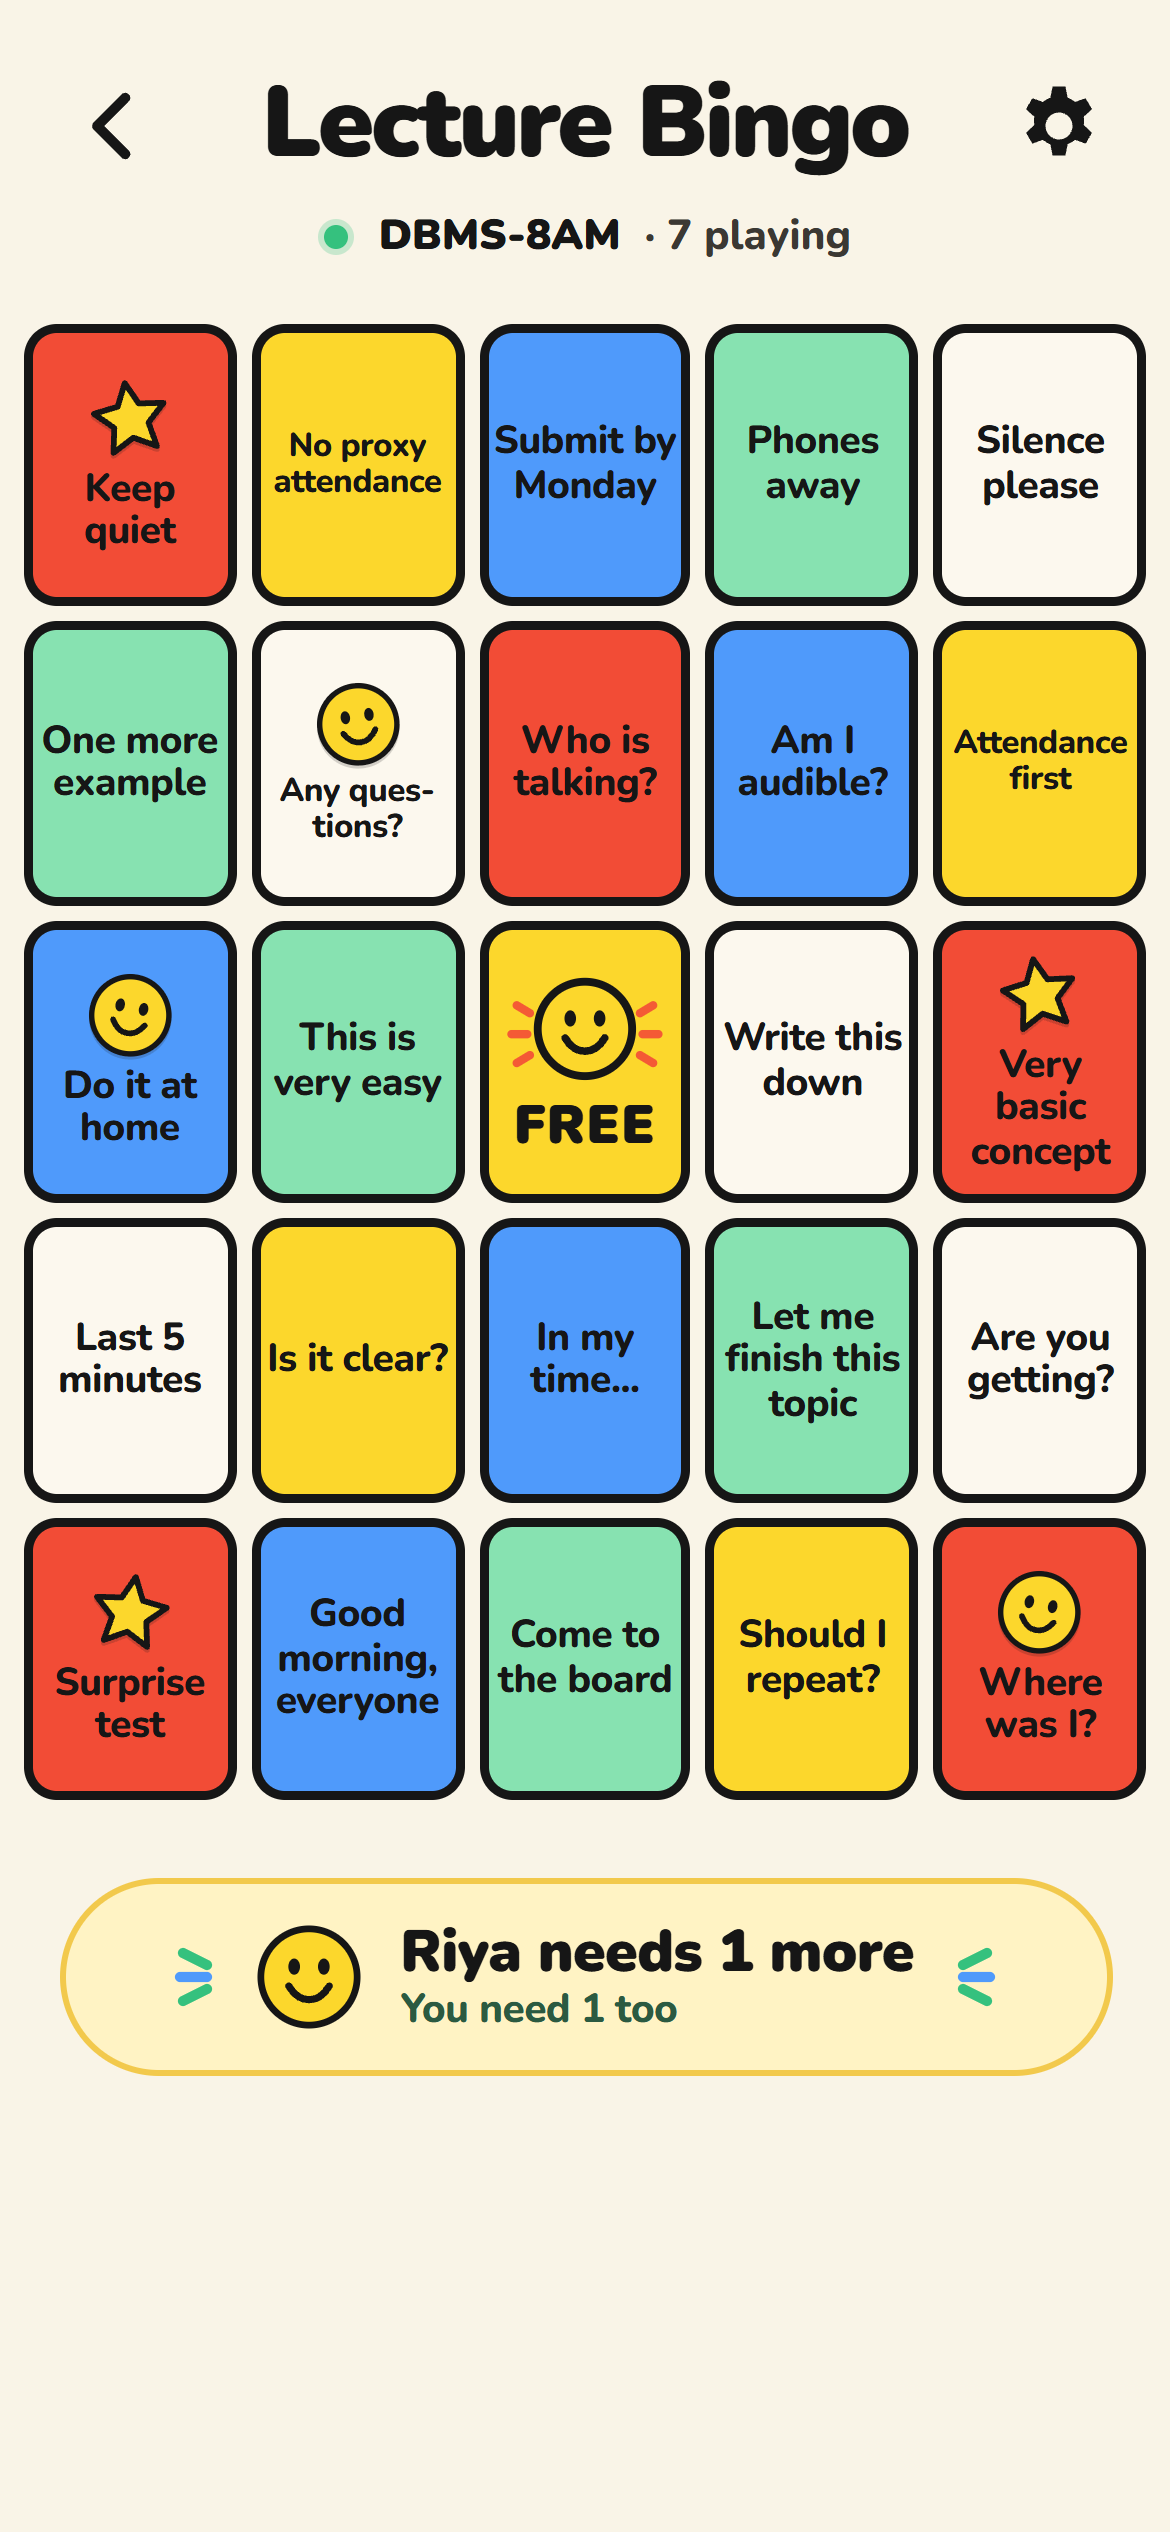
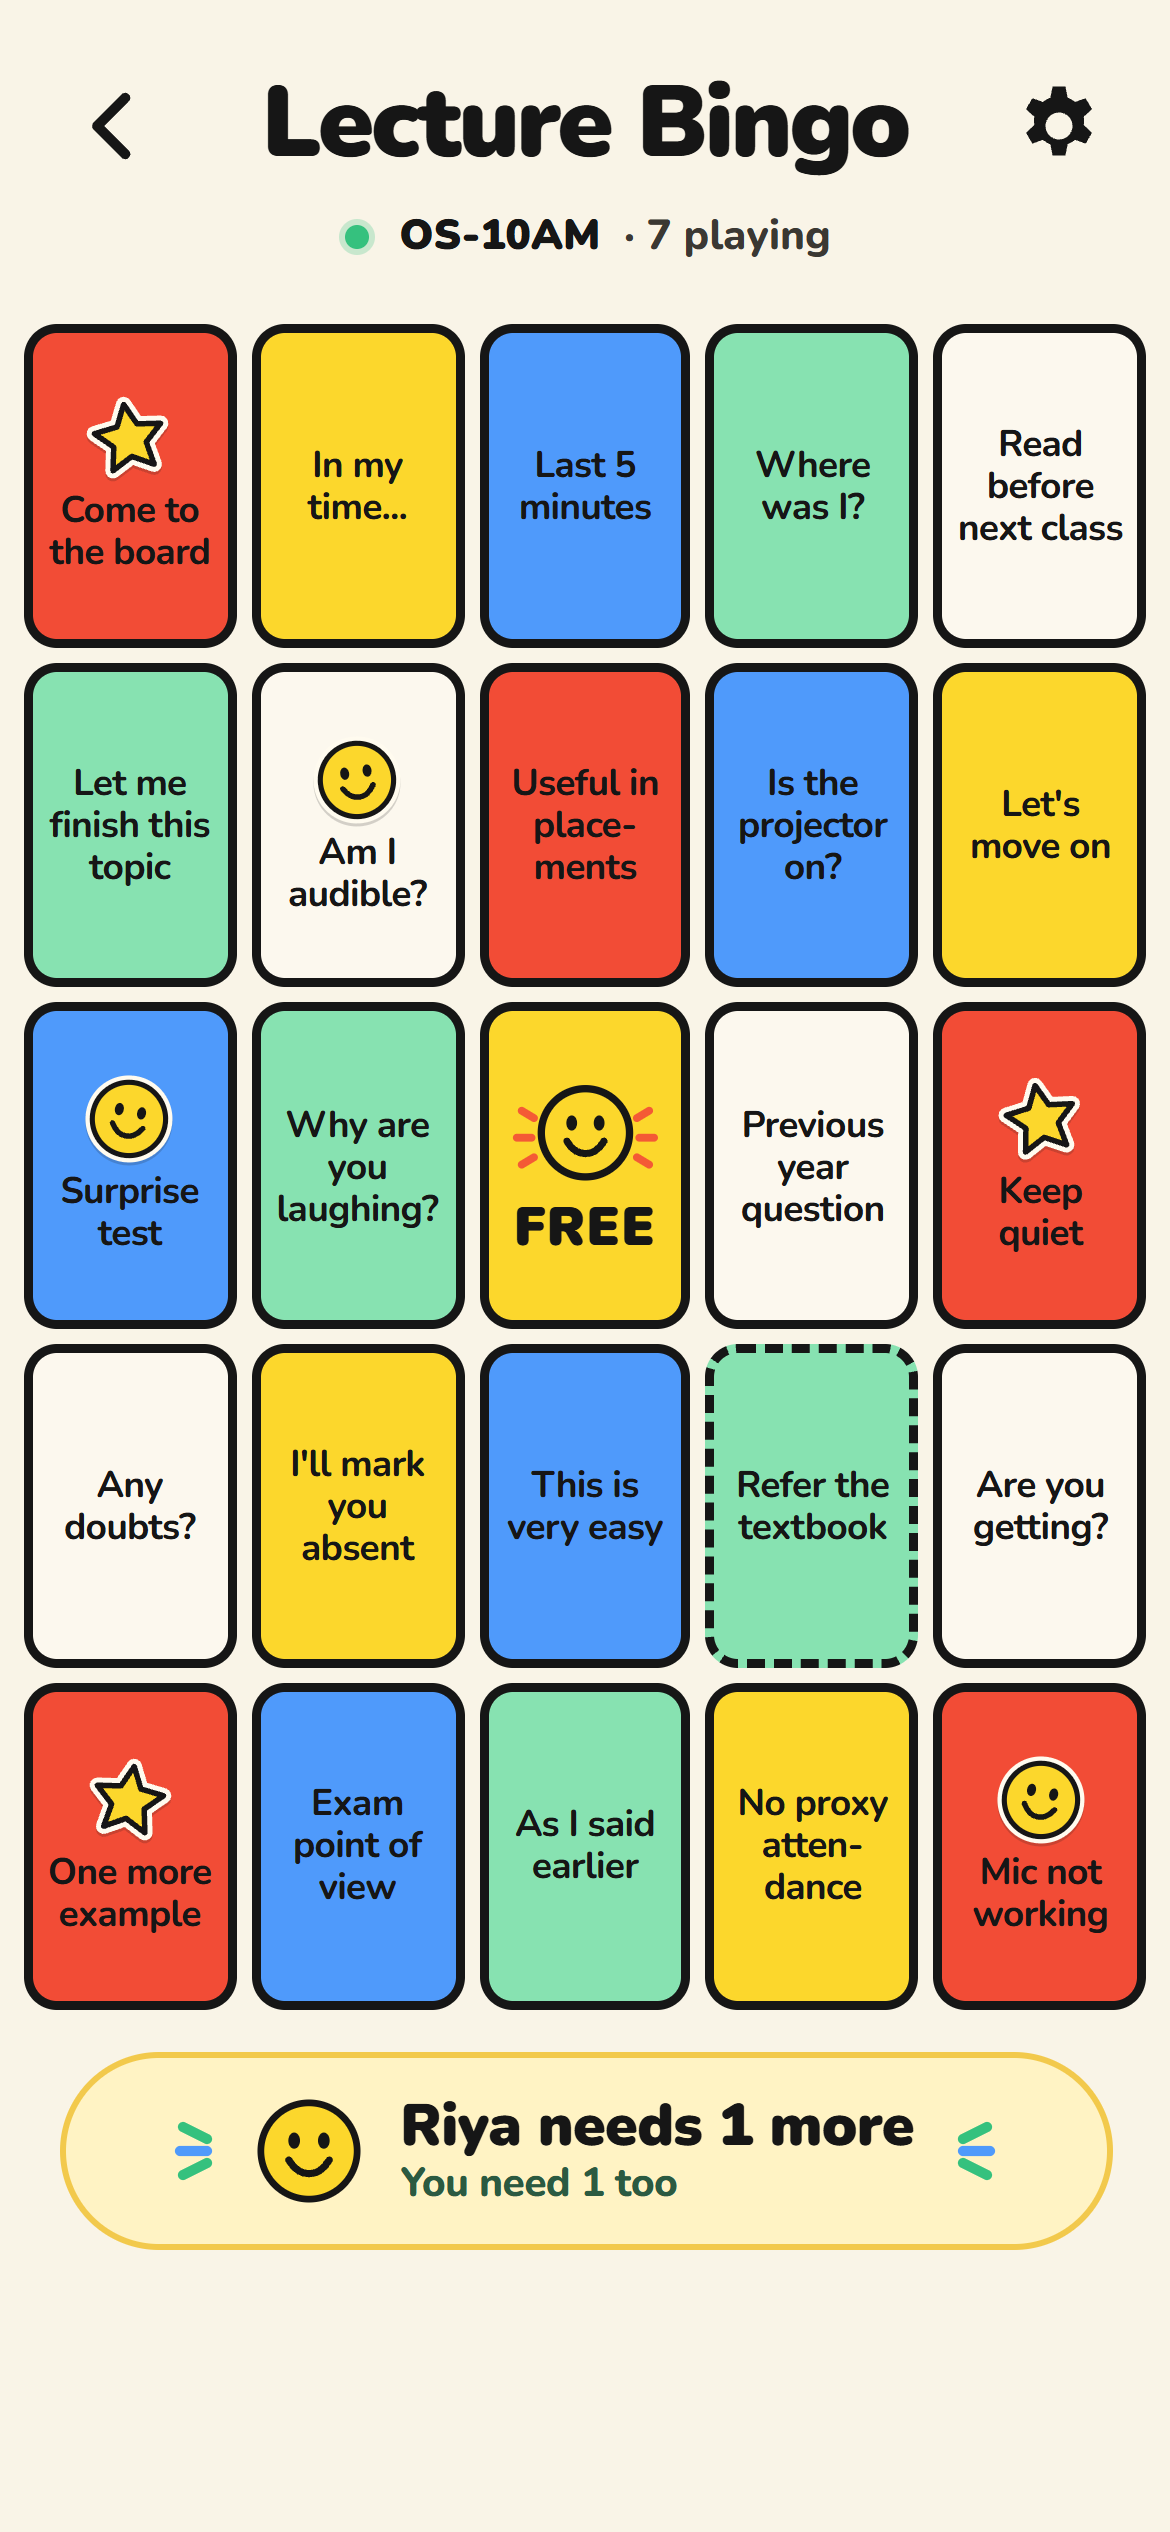
Win screen: Share pill clears the corner stickers

diff --git a/assets/js/app.js b/assets/js/app.js
@@ -785,10 +785,10 @@ function renderWin() {
       <button class="btn red" type="button" data-act="next">Next lecture</button>
       <button class="btn ghost" type="button" data-act="share">${icons.share()}Share</button>
     </div>
-    ${deco('', 'left:12px;bottom:18px;width:50px;transform:rotate(-12deg)', star(COLORS.sun))}
+    ${deco('', 'left:8px;bottom:16px;width:44px;transform:rotate(-12deg)', star(COLORS.sun))}
     ${deco('', 'left:30px;bottom:76px;width:22px;height:22px', dashSvg(dash(COLORS.green, 4, 18, 18, 6, 4.5), '0 0 22 22'))}
     ${deco('', 'left:62px;bottom:16px;width:22px;height:22px', dashSvg(dash(COLORS.cobalt, 4, 18, 16, 6, 4.5), '0 0 22 22'))}
-    ${deco('', 'right:12px;bottom:16px;width:56px', smiley(COLORS.green))}
+    ${deco('', 'right:8px;bottom:14px;width:48px', smiley(COLORS.green))}
     ${deco('', 'right:30px;bottom:80px;width:22px;height:22px', dashSvg(dash(COLORS.cobalt, 8, 2, 14, 20, 4.5), '0 0 22 22'))}
   </section>`;
   $app.querySelector('.screen').addEventListener('click', onAction);

diff --git a/assets/css/bingo.css b/assets/css/bingo.css
@@ -867,7 +867,7 @@ button {
   font-size: 30px;
 }
 .win .actions .btn.ghost {
-  width: 82%;
+  width: 70%;
 }
 .textlink {
   min-height: 44px;
